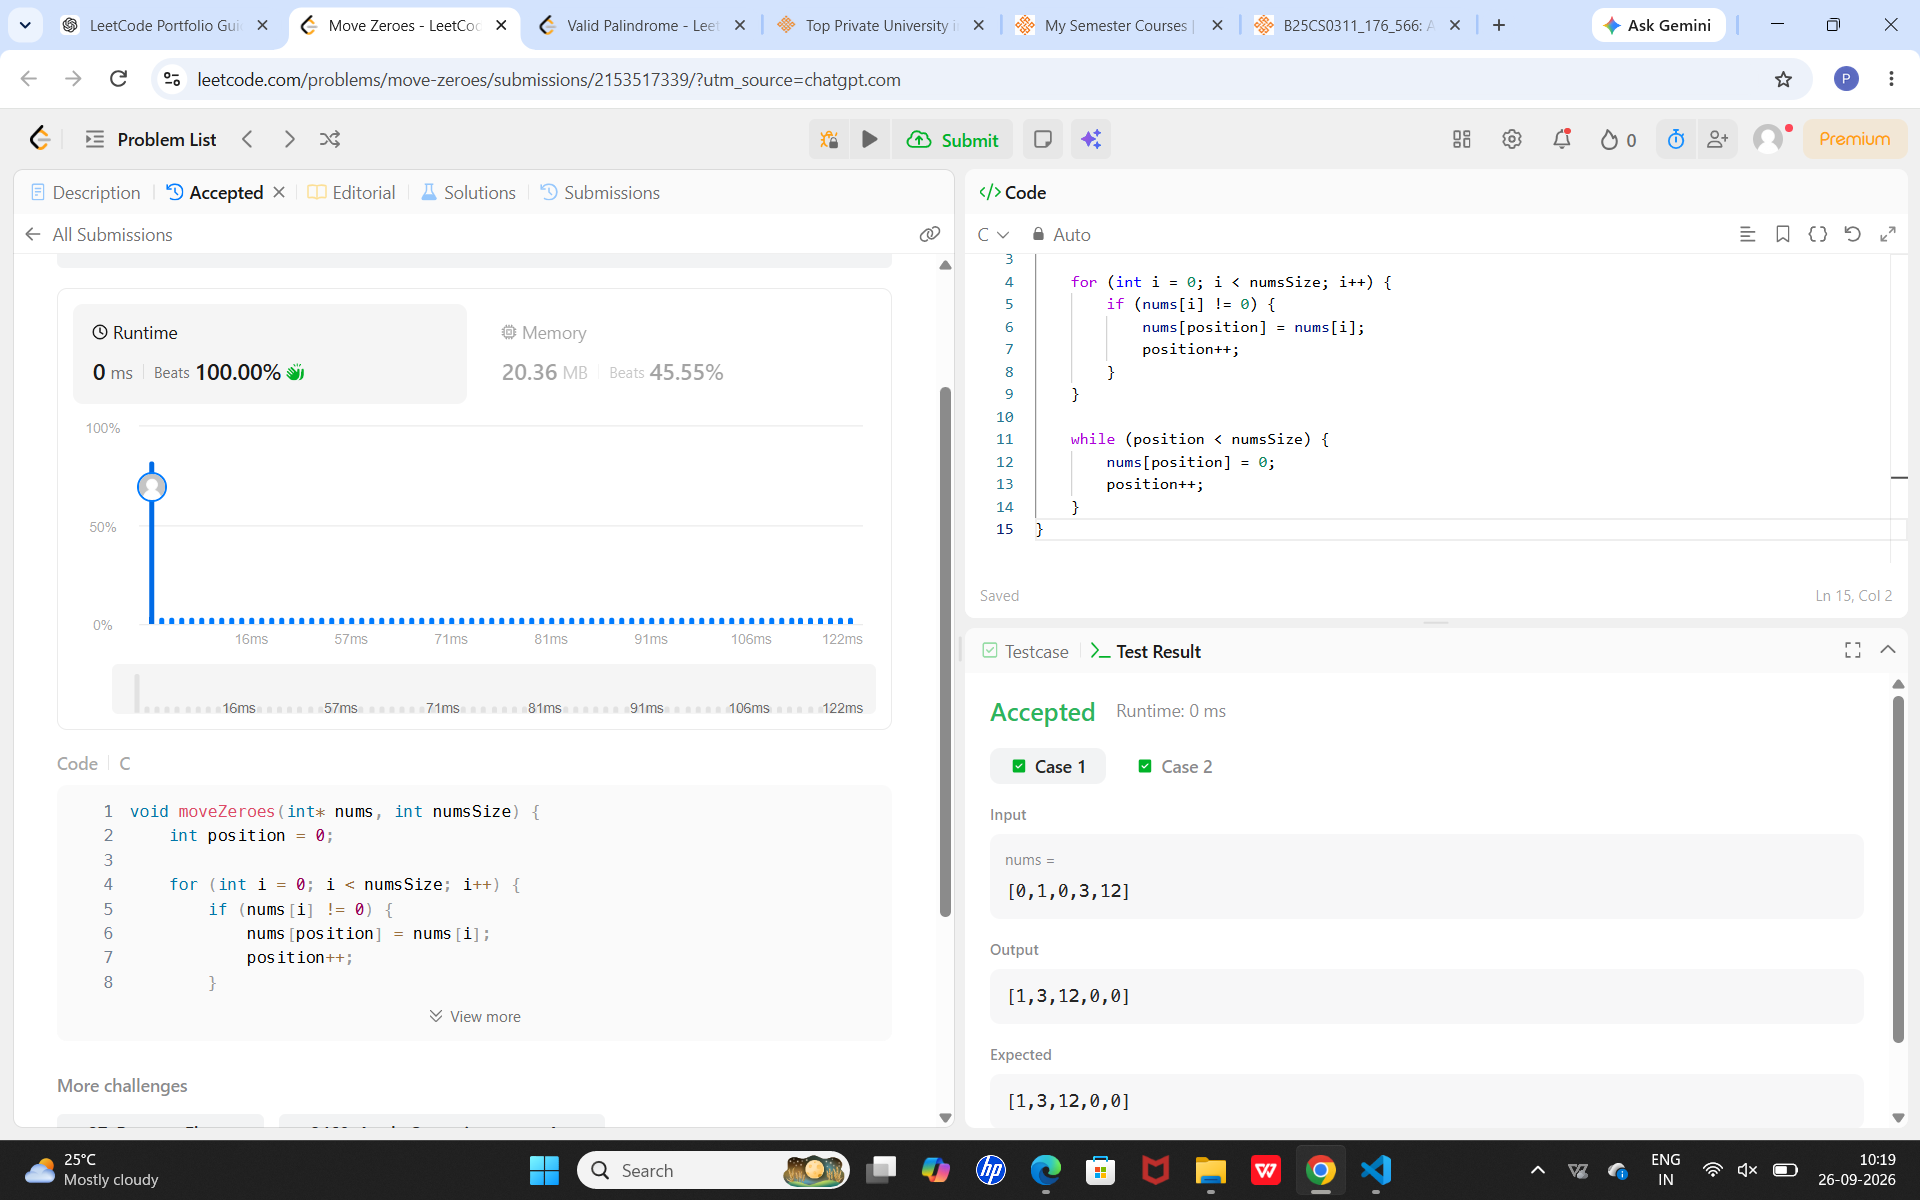
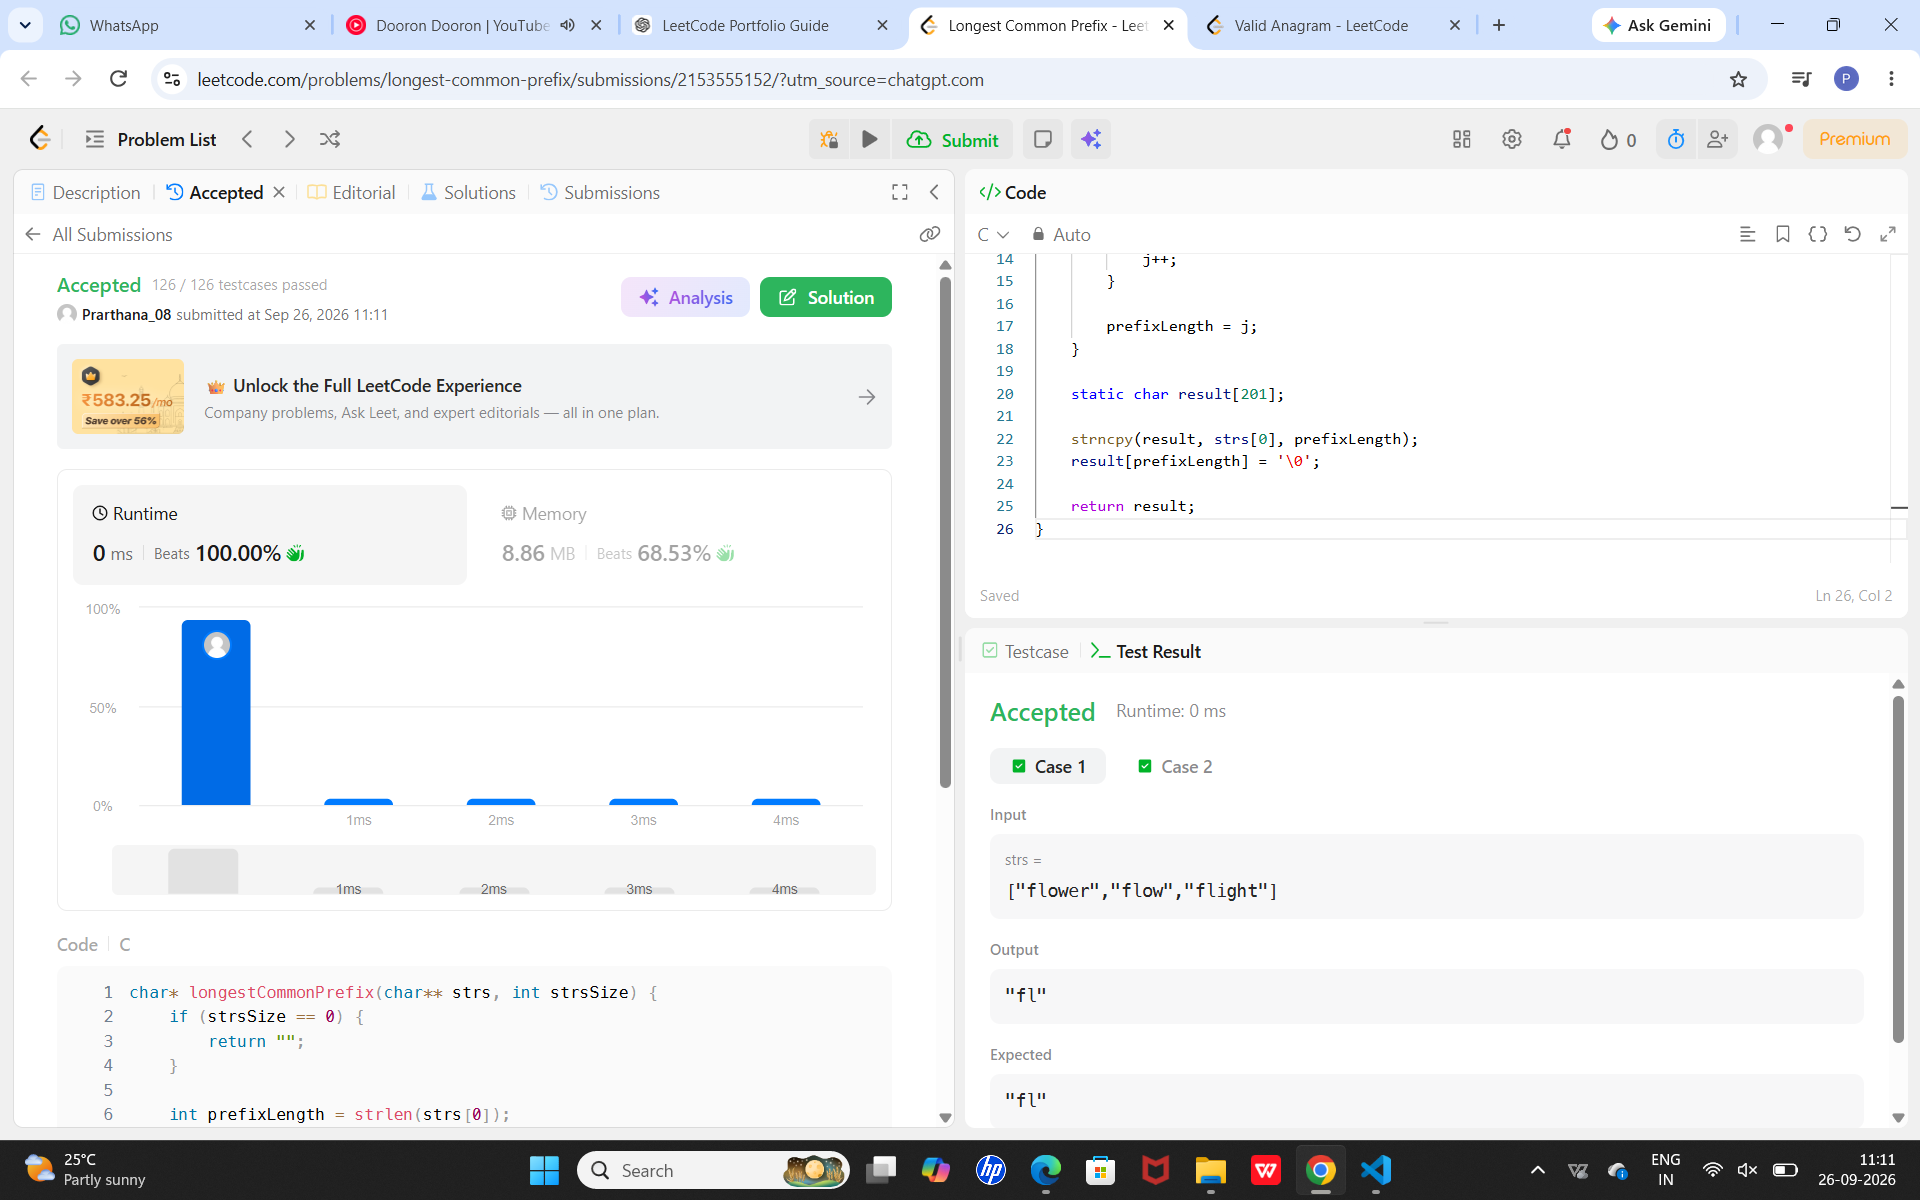
Add Longest Common Prefix solution and documentation

diff --git a/leetcode-solutions/arrays-strings/04-longest-common-prefix.c b/leetcode-solutions/arrays-strings/04-longest-common-prefix.c
@@ -1,0 +1,48 @@
+#include <stdio.h>
+#include <string.h>
+
+void longestCommonPrefix(char *strs[], int strsSize, char result[]) {
+    if (strsSize == 0) {
+        result[0] = '\0';
+        return;
+    }
+
+    int prefixLength = strlen(strs[0]);
+
+    for (int i = 1; i < strsSize; i++) {
+        int j = 0;
+
+        while (j < prefixLength &&
+               strs[0][j] != '\0' &&
+               strs[0][j] == strs[i][j]) {
+            j++;
+        }
+
+        prefixLength = j;
+    }
+
+    strncpy(result, strs[0], prefixLength);
+    result[prefixLength] = '\0';
+}
+
+int main() {
+    char *strs1[] = {"flower", "flow", "flight"};
+    char result1[100];
+
+    char *strs2[] = {"dog", "racecar", "car"};
+    char result2[100];
+
+    printf("Test Case 1:\n");
+    printf("Input: [\"flower\", \"flow\", \"flight\"]\n");
+
+    longestCommonPrefix(strs1, 3, result1);
+    printf("Output: \"%s\"\n\n", result1);
+
+    printf("Test Case 2:\n");
+    printf("Input: [\"dog\", \"racecar\", \"car\"]\n");
+
+    longestCommonPrefix(strs2, 3, result2);
+    printf("Output: \"%s\"\n", result2);
+
+    return 0;
+}

diff --git a/leetcode-solutions/arrays-strings/04-longest-common-prefix.md b/leetcode-solutions/arrays-strings/04-longest-common-prefix.md
@@ -1,0 +1,34 @@
+## Problem: Longest Common Prefix (Easy)
+
+**Link:** https://leetcode.com/problems/longest-common-prefix/
+
+### Approach
+
+I used the first string as the initial prefix and compared it character by character with each of the remaining strings. Whenever a mismatch was found, the prefix length was reduced. This continues until the longest common prefix shared by all strings is found.
+
+### Complexity
+
+* Time: O(n × m), where `n` is the number of strings and `m` is the length of the shortest relevant prefix.
+* Space: O(1), excluding the returned result.
+
+### Notes
+
+If the strings have no characters in common, the result is an empty string. The solution also handles a single string, where the entire string is the common prefix.
+
+### Test Cases
+
+**Test Case 1:**
+
+* Input: `["flower", "flow", "flight"]`
+* Expected Output: `"fl"`
+* Actual Output: `"fl"`
+
+**Test Case 2:**
+
+* Input: `["dog", "racecar", "car"]`
+* Expected Output: `""`
+* Actual Output: `""`
+
+### LeetCode Result
+
+Accepted.
